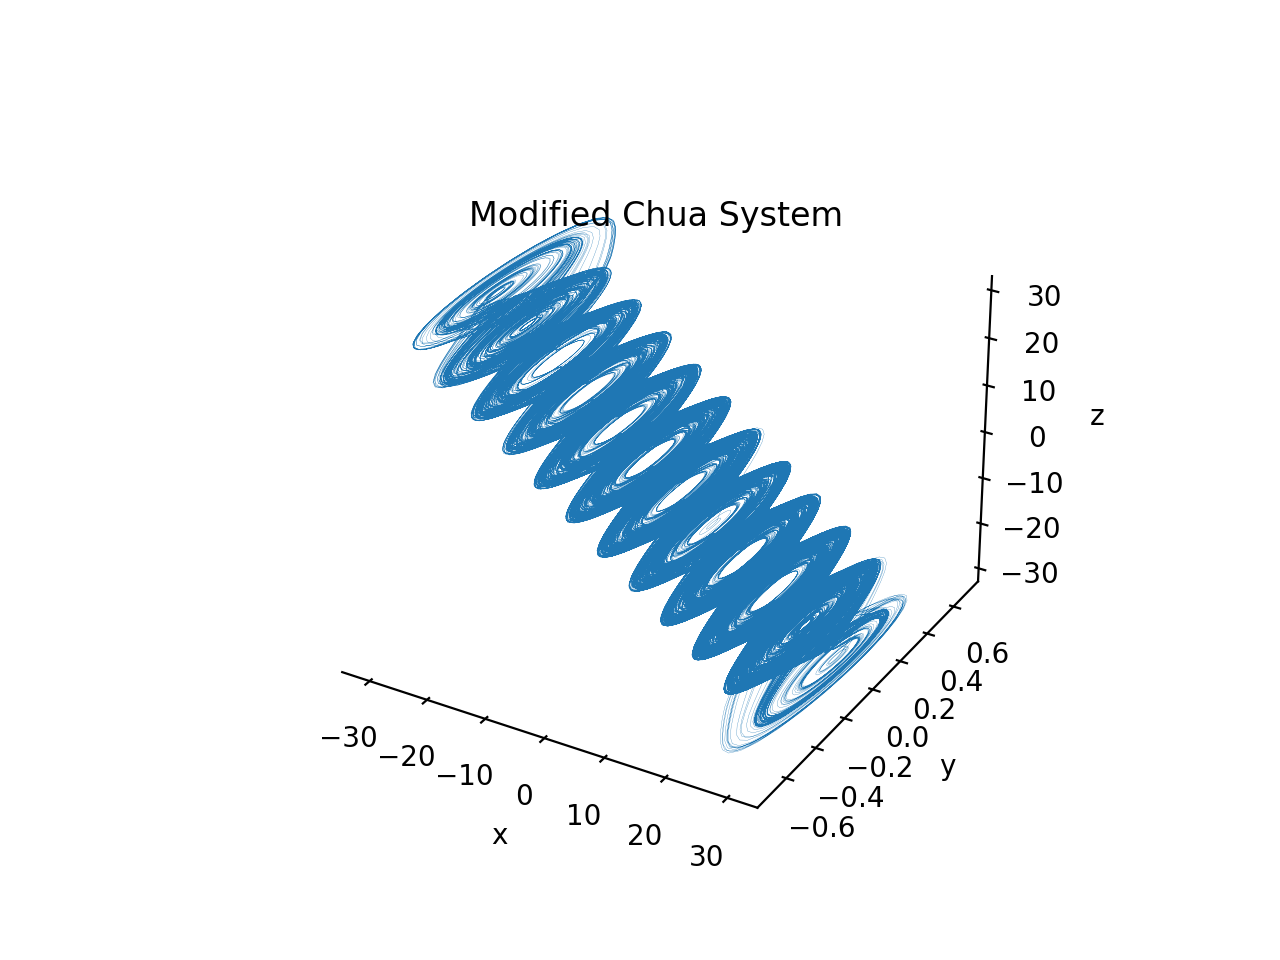
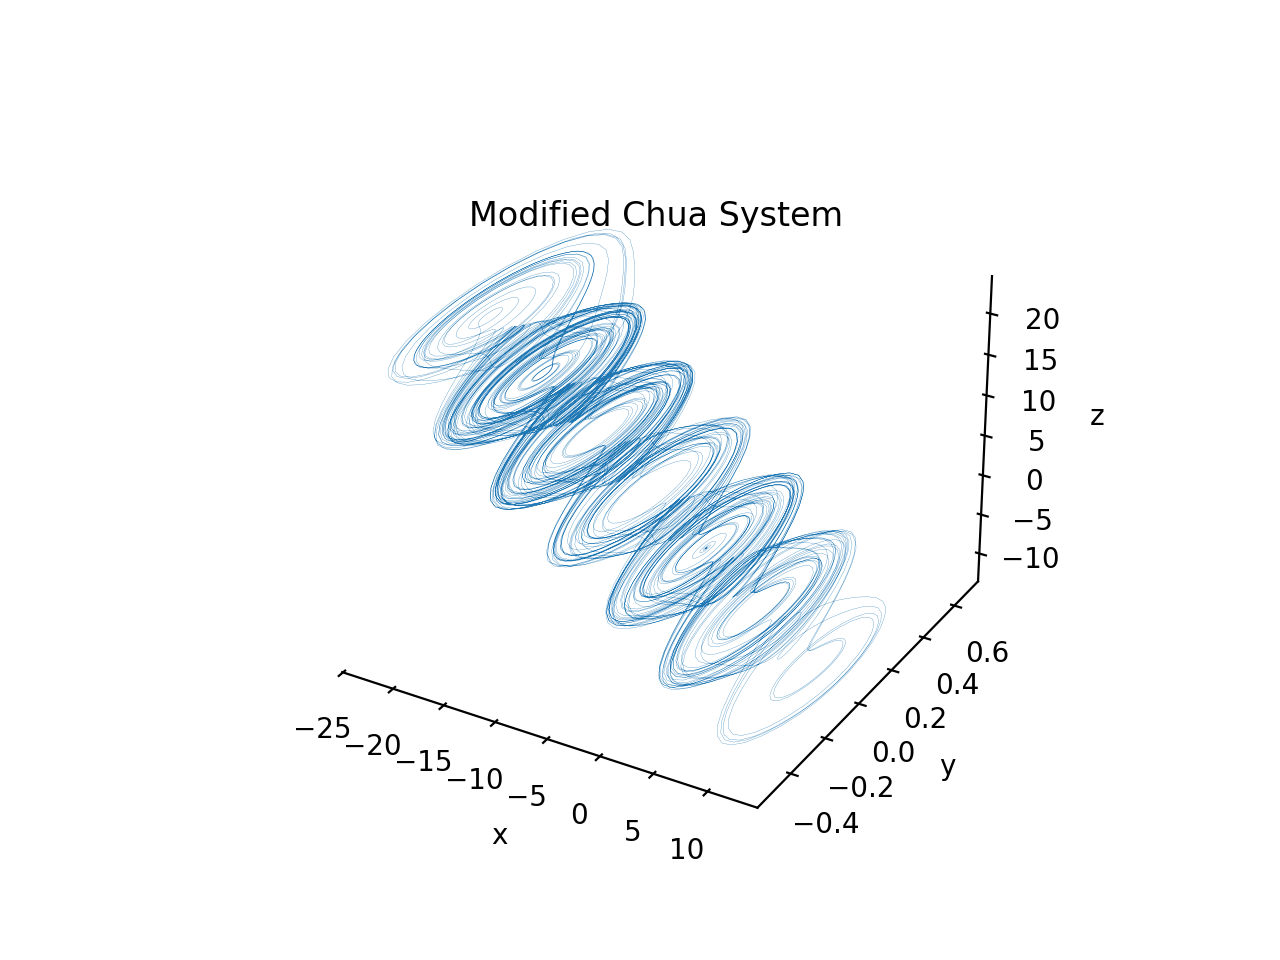
modified chua modelling

diff --git a/Lorenz Attractor Code.py b/Lorenz Attractor Code.py
@@ -809,14 +809,14 @@ if __name__ == "__main__":
     init_rf = np.array([-1, 0, 0.5])
     init_chen = np.array([-10, 0, 37])
     init_henon = np.array([0, 0])
-    init_m_chua = np.array([1, 0, 0])
+    init_m_chua = np.array([0, 0, 0])
     init_duffing = np.array([0, 0, 0])
 
     init = init_m_chua
 
     # step
     dt = 0.1
-    num_steps_to_stop = 100000 # the number of steps that the simulation goes through before stopping
+    num_steps_to_stop = 10000 # the number of steps that the simulation goes through before stopping
 
     params_custom = [] # choose your own parameters
 
@@ -825,7 +825,7 @@ if __name__ == "__main__":
     params_rf = [0.14, 0.1] # a, b
     params_chen = [35, 3, 28] # a, b, c
     params_henon = [1.4, 0.3] # a, b
-    params_m_chua = [10.814, 14.0, 1.3, 0.11, 11, 0] # alpha, Beta, a, b, c, d. Note that c is odd => d = 0, c is even => d = pi
+    params_m_chua = [10.814, 14.0, 1.3, 0.11, 8, np.pi] # alpha, Beta, a, b, c, d. Note that c is odd => d = 0, c is even => d = pi
     params_duffing = [1, -1, 0.2, 0.3, 1] # aplha, Beta, gamma, delta, omega 
 
     # choose which parameter set you could like to use while modelling
